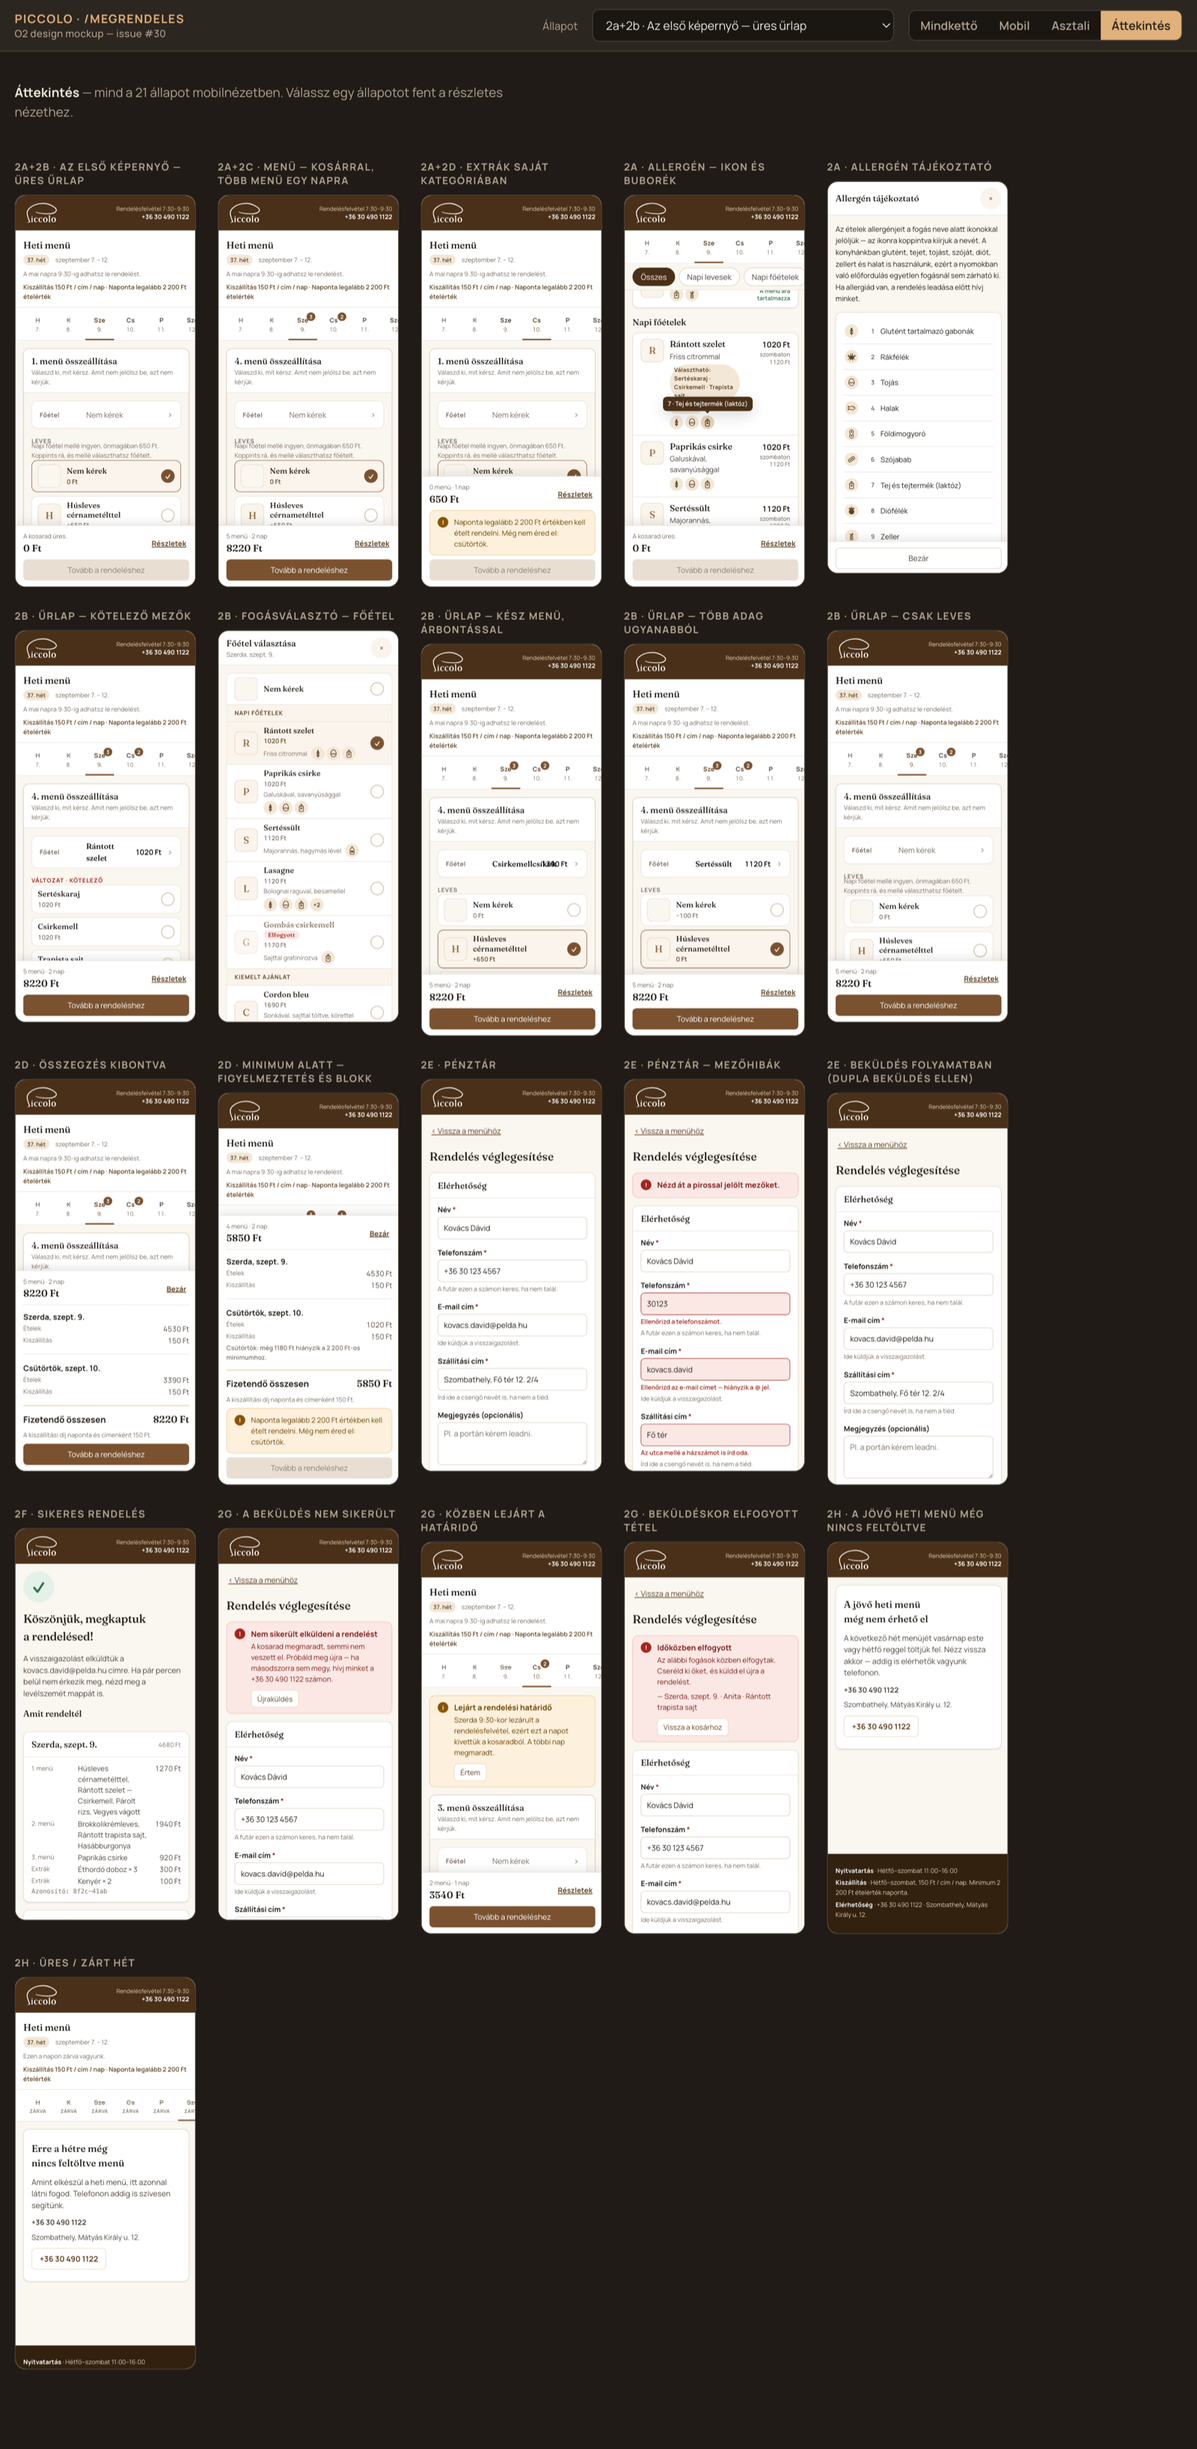
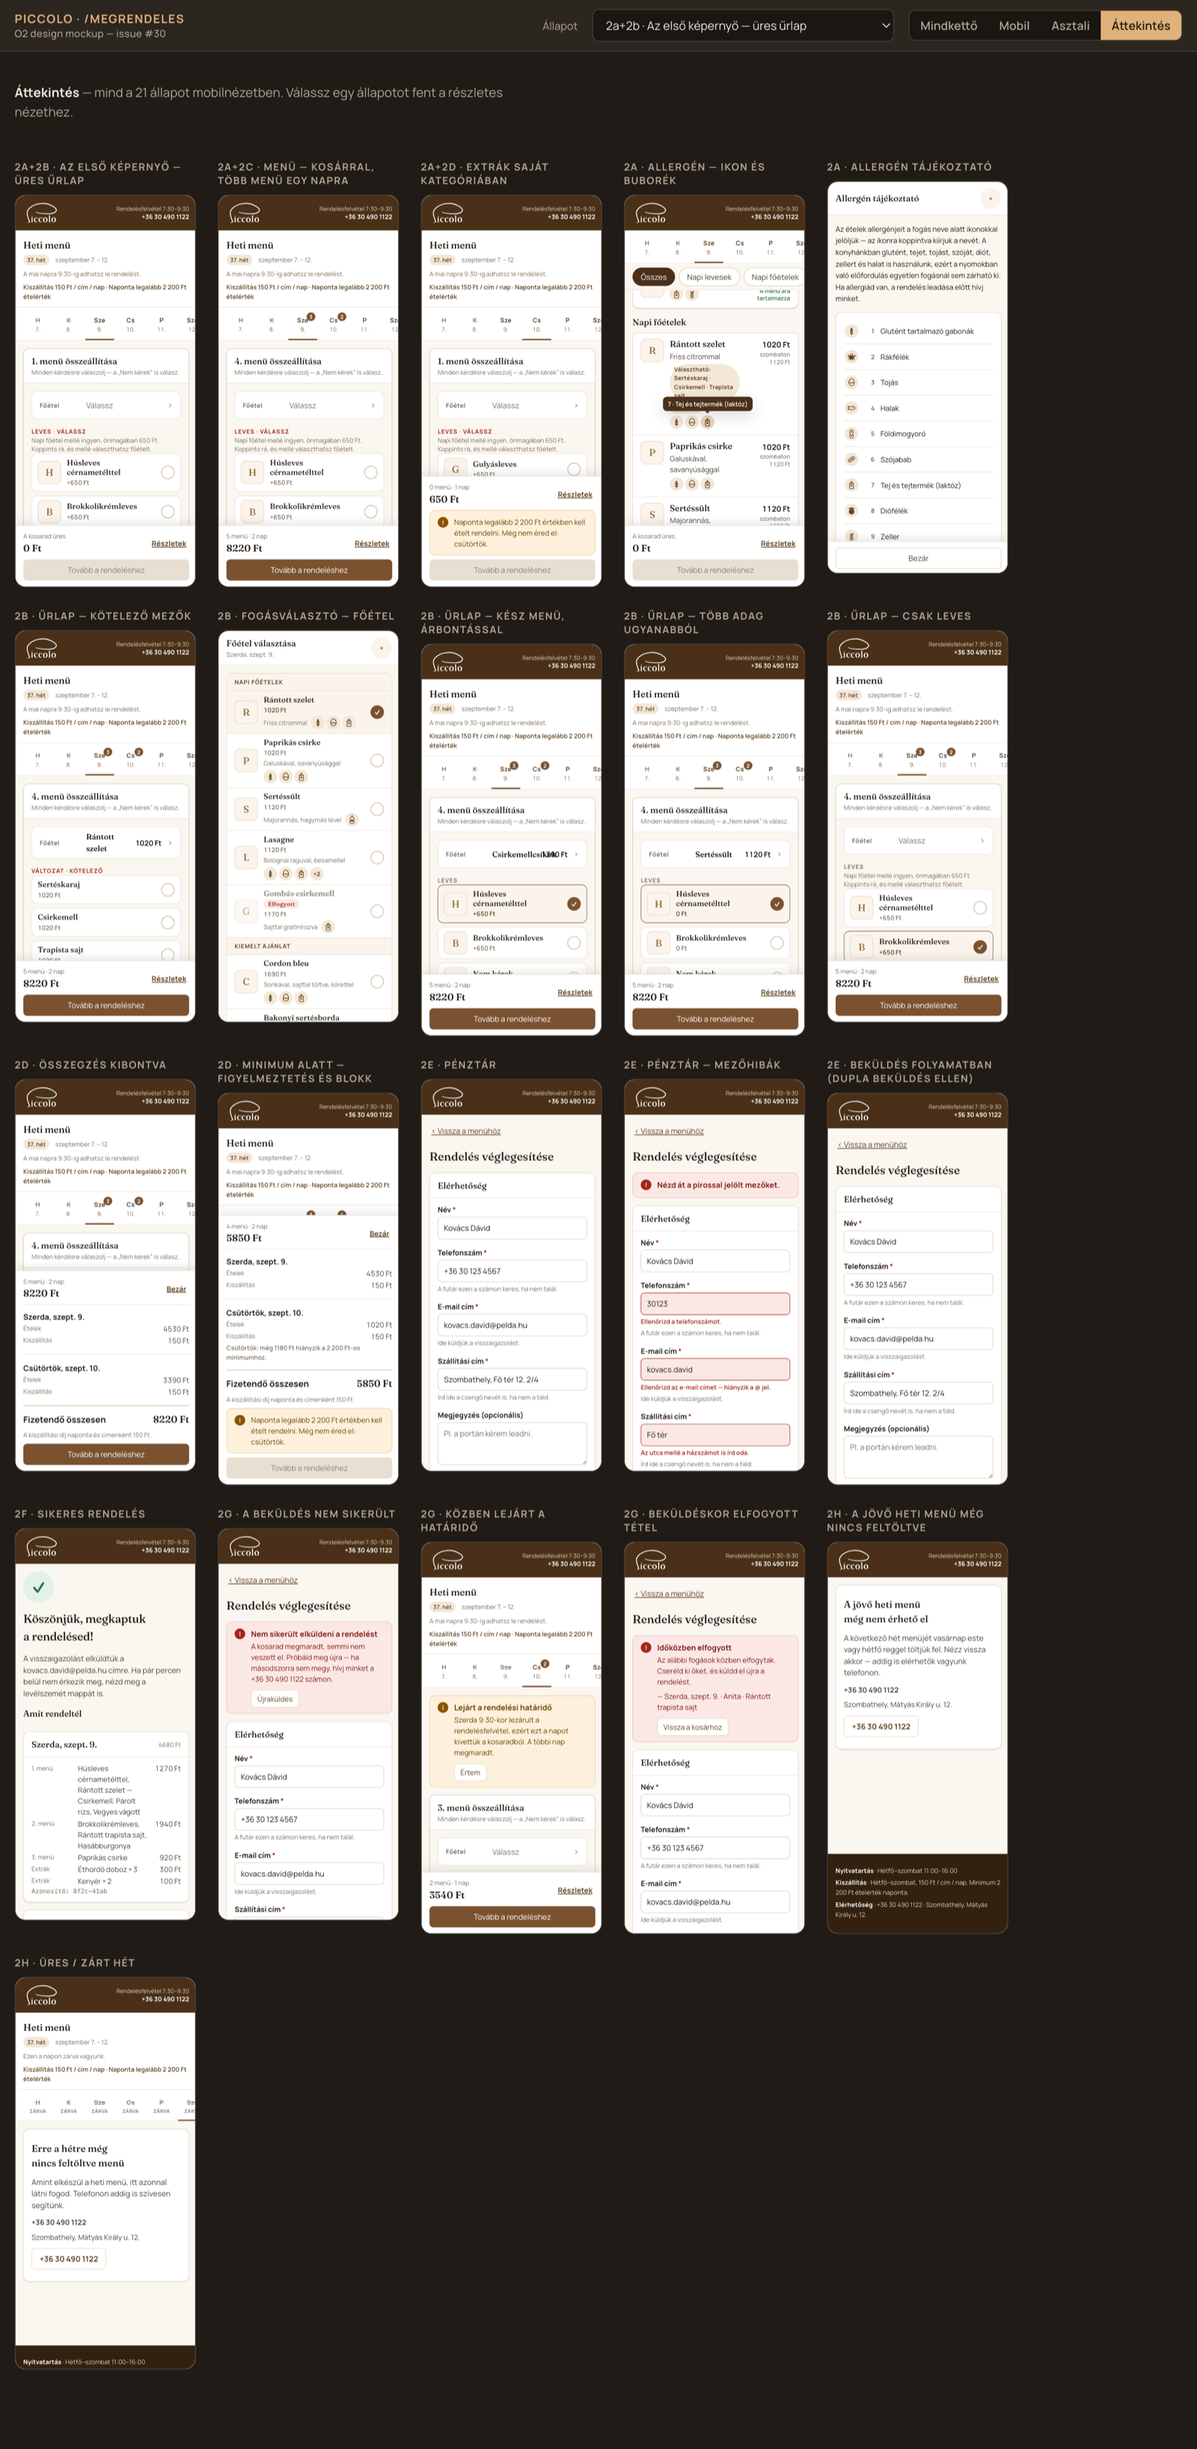
O2: no pre-selected answer, and "Nem kérek" goes last
Dávid's call. Soup, dessert and pickle now open unanswered: `undefined` means
"not answered", `null` means the guest chose "Nem kérek". Until all three are
settled the block's label reads "· válassz" in red and Hozzáadás is disabled.
"Nem kérek" moves to the bottom of every list, including the main-course picker
— it is the exit, not the entrance. The main course row prompts "Válassz"
instead of offering to decline a main.

The soup is the case that justifies it: beside a daily main it is included, and
declining only takes 100 Ft off, so a guest skipping a pre-checked "Nem kérek"
was leaving a nearly free course behind. The cost is three taps per menu on a
page used by regulars in a two-hour window, and the design note records both the
number to watch and the cheaper half — keep the forced answer on the soup, let
dessert and pickle open unanswered without blocking — as a one-line retreat.

diff --git a/docs/design/megrendeles/mockup.html b/docs/design/megrendeles/mockup.html
@@ -1301,6 +1301,12 @@
         background: var(--paper);
         border-top: 1px solid var(--line);
       }
+      .block-hint {
+        margin: calc(var(--s-1) * -1) 0 var(--s-2);
+        font-size: var(--t-sm);
+        line-height: 1.4;
+        color: var(--ink-500);
+      }
       .extra-note {
         font-size: var(--t-sm);
         color: var(--ink-500);
@@ -2116,8 +2122,10 @@
           choose: 'Válassz',
           variationLabel: 'Változat',
           requiredSuffix: 'kötelező',
+          answerSuffix: 'válassz',
+          unanswered: 'Válaszolj a jelölt kérdésekre — a „Nem kérek” is válasz.',
           formTitle: (n) => n + '. menü összeállítása',
-          formHint: 'Válaszd ki, mit kérsz. Amit nem jelölsz be, azt nem kérjük.',
+          formHint: 'Minden kérdésre válaszolj — a „Nem kérek” is válasz.',
           reset: 'Ürítés',
           mealExtras: 'Szósz, kenyér',
           mealExtrasHint: 'Ezek a nap rendeléséhez adódnak hozzá, nem a menü ára részei.',
@@ -2549,6 +2557,12 @@
 
         if (mainItem && mainItem.variations && !m.variation) errors.push('variation');
         if (mainItem && mainItem.requiresSide && !m.side) errors.push('side');
+        /* Soup, pickle and dessert carry no default. The guest answers each one —
+           picking a dish or picking "Nem kérek" — so nothing is ordered, or skipped,
+           by a checkbox nobody looked at. */
+        for (const slot of ['soup', 'pickle', 'dessert']) {
+          if (m[slot] === undefined) errors.push('unanswered:' + slot);
+        }
         if (!soupItem && !mainItem && !m.side && !m.pickle && !m.dessert) errors.push('empty');
 
         return { lines, total: lines.reduce((s, l) => s + l.amount, 0), errors };
@@ -3276,7 +3290,7 @@
             (item
               ? '<span class="picked">' + esc(item.name) + '</span>'
               : '<span class="placeholder">' +
-                esc(opts.required ? S.composer.choose : S.composer.none) +
+                esc(opts.placeholder || S.composer.choose) +
                 '</span>') +
             '</span><span class="amt num">' +
             esc(amt) +
@@ -3303,11 +3317,17 @@
          * "Csirkecomb" would both draw a C.
          */
         const choiceRows = (slotLabel, opts) => {
-          const label = opts.required ? slotLabel + ' · ' + S.composer.requiredSuffix : slotLabel;
+          const unanswered = opts.answerable && c[opts.slot] === undefined;
+          const label = opts.required
+            ? slotLabel + ' · ' + S.composer.requiredSuffix
+            : unanswered
+              ? slotLabel + ' · ' + S.composer.answerSuffix
+              : slotLabel;
           const rows = opts.options
             .map((o) => {
               const item = o.id ? ITEMS[o.id] : null;
-              const checked = (o.id || null) === (c[opts.slot] || null);
+              const chosen = c[opts.slot];
+              const checked = chosen !== undefined && (o.id || null) === (chosen || null);
               const soldOut = !!(item && item.soldOut);
               return (
                 '<button type="button" class="pickrow choicerow" role="radio" aria-checked="' +
@@ -3331,11 +3351,11 @@
             .join('');
           return (
             '<div><p class="' +
-            cls('field-label', opts.required && 'is-required') +
+            cls('field-label', (opts.required || unanswered) && 'is-required') +
             '">' +
             esc(label) +
             '</p>' +
-            (opts.hint ? '<p class="extra-note" style="margin-top:calc(var(--s-2) * -1)">' + esc(opts.hint) + '</p>' : '') +
+            (opts.hint ? '<p class="block-hint">' + esc(opts.hint) + '</p>' : '') +
             '<div class="choicerows" role="radiogroup" aria-label="' +
             esc(S.composer.slots[opts.slot] || label) +
             '">' +
@@ -3352,14 +3372,15 @@
 
         const soupBlock = choiceRows(S.composer.slots.soup, {
           slot: 'soup',
+          answerable: true,
           hint: mainItem ? null : S.sections.soupsHint,
           options: [
-            { id: null, name: S.composer.none, amount: soupAmount(null) },
             ...WEEK.byDate[date].soups.map((s) => ({
               id: s.id,
               name: s.name,
               amount: soupAmount(s.id),
             })),
+            { id: null, name: S.composer.none, amount: soupAmount(null) },
           ],
         });
 
@@ -3457,24 +3478,26 @@
           sideBlock +
           choiceRows(S.composer.slots.dessert, {
             slot: 'dessert',
+            answerable: true,
             options: [
-              { id: null, name: S.composer.none, amount: money(0) },
               ...WEEK.desserts.map((i) => ({
                 id: i.id,
                 name: i.name,
                 amount: money(priceOf(i, date)),
               })),
+              { id: null, name: S.composer.none, amount: money(0) },
             ],
           }) +
           choiceRows(S.composer.slots.pickle, {
             slot: 'pickle',
+            answerable: true,
             options: [
-              { id: null, name: S.composer.none, amount: money(0) },
               ...WEEK.pickles.map((i) => ({
                 id: i.id,
                 name: i.name,
                 amount: money(priceOf(i, date)),
               })),
+              { id: null, name: S.composer.none, amount: money(0) },
             ],
           }) +
           '<div><p class="field-label">' +
@@ -3509,7 +3532,9 @@
           ? S.composer.variationMissing
           : p.errors.includes('side')
             ? S.composer.sideMissing
-            : S.composer.emptyMenu;
+            : p.errors.some((e) => e.startsWith('unanswered:'))
+              ? S.composer.unanswered
+              : S.composer.emptyMenu;
 
         const addTotal = (p.total + extrasTotal) * portions;
         const foot =
@@ -3564,7 +3589,7 @@
         const groups = slotOptions(slot, date);
         const none =
           '<button type="button" class="pickrow option" role="radio" aria-checked="' +
-          !c[slot] +
+          (c[slot] === null) +
           '" data-pick="" data-slot="' +
           slot +
           '">' +
@@ -3621,7 +3646,7 @@
         return Sheet(
           S.composer.pickerTitle(S.composer.slots[slot]),
           cap(dayFull(date)),
-          '<div class="options" role="radiogroup">' + none + body + '</div>',
+          '<div class="options" role="radiogroup">' + body + none + '</div>',
           '',
         );
       }
@@ -4002,15 +4027,20 @@
         [...WEEK.featured, ...WEEK.allWeek, ...WEEK.sides, ...WEEK.sideExtras, ...WEEK.pickles, ...WEEK.desserts].find(
           (i) => i.name === name,
         ).id;
+      /**
+       * `undefined` on a slot means "not answered yet"; `null` means the guest chose
+       * "Nem kérek". Only that distinction lets the form open with nothing selected
+       * and still know when every question has been put to rest.
+       */
+      /** A menu that is already in the cart: every question answered. */
+      const addedMenu = (o) => composedMenu({ soup: null, pickle: null, dessert: null, ...o });
+
       const composedMenu = (o) => ({
         portions: 1,
         extras: {},
-        soup: null,
         main: null,
         variation: null,
         side: null,
-        pickle: null,
-        dessert: null,
         ...o,
       });
 
@@ -4029,19 +4059,19 @@
         {
           date: WED,
           menus: [
-            composedMenu({
+            addedMenu({
               soup: dayItem(WED, 'Húsleves cérnametélttel'),
               main: dayItem(WED, 'Rántott szelet'),
               variation: 'Csirkemell',
               side: permItem('Párolt rizs'),
               pickle: permItem('Vegyes vágott'),
             }),
-            composedMenu({
+            addedMenu({
               soup: dayItem(WED, 'Brokkolikrémleves'),
               main: permItem('Rántott trapista sajt'),
               side: permItem('Hasábburgonya'),
             }),
-            composedMenu({ main: dayItem(WED, 'Paprikás csirke') }),
+            addedMenu({ main: dayItem(WED, 'Paprikás csirke') }),
           ],
           extras: [
             { key: 'box', qty: 3 },
@@ -4051,12 +4081,12 @@
         {
           date: THU,
           menus: [
-            composedMenu({
+            addedMenu({
               soup: dayItem(THU, 'Gulyásleves'),
               main: dayItem(THU, 'Sült oldalas'),
               side: permItem('Steak burgonya'),
             }),
-            composedMenu({
+            addedMenu({
               soup: dayItem(THU, 'Sárgaborsó-krémleves'),
               main: dayItem(THU, 'Csirkepaprikás'),
               dessert: permItem('Túrógombóc'),
@@ -4068,7 +4098,7 @@
 
       const cartBelowMinimum = () => {
         const c = cartFull();
-        c[1].menus = [composedMenu({ main: dayItem(THU, 'Csirkepaprikás') })];
+        c[1].menus = [addedMenu({ main: dayItem(THU, 'Csirkepaprikás') })];
         c[1].extras = [{ key: 'box', qty: 1 }];
         return c;
       };
@@ -4099,7 +4129,7 @@
         {
           id: 'menu-empty',
           label: '2a+2b · Az első képernyő — üres űrlap',
-          note: 'Ez az, amit a vendég reggel lát: <b>egy üres űrlap az 1. menühöz</b>, ahogy a régi oldalon is. Nem kell böngészni, nem nyílik modal — csak kiválasztod, mit kérsz. A főétel tömör sor + választólap (11 fogás három kategóriából), minden más ki van nyitva. Alatta megmarad a kínálat böngészhető listája: ott is koppinthatsz egy fogásra, és beleesik az űrlapba. Hétfő és kedd már lezárult (áthúzva), a kiszállítási díj és a minimum a fejlécben.',
+          note: 'Ez az, amit a vendég reggel lát: <b>egy üres űrlap az 1. menühöz</b>, ahogy a régi oldalon is. Nem kell böngészni, nem nyílik modal — csak kiválasztod, mit kérsz. A főétel tömör sor + választólap (11 fogás három kategóriából), minden más ki van nyitva. Alatta megmarad a kínálat böngészhető listája: ott is koppinthatsz egy fogásra, és beleesik az űrlapba. <b>Semmi nincs előre bejelölve</b>: a levesre, a desszertre és a savanyúságra külön-külön válaszolni kell, és a „Nem kérek” a lista <i>végén</i> áll, nem az elején. Amíg egy kérdés nyitva van, a címkéje pirosan „· válassz”, és a „Hozzáadás” tiltva. Hétfő és kedd már lezárult (áthúzva), a kiszállítási díj és a minimum a fejlécben.',
           vm: () => baseVm({}),
         },
         {
@@ -4169,10 +4199,11 @@
             baseVm({
               cart: cartFull(),
               composer: composedMenu({
-                  soup: dayItem(WED, 'Húsleves cérnametélttel'),
+                soup: dayItem(WED, 'Húsleves cérnametélttel'),
                 main: permItem('Csirkemellcsíkok'),
                 side: permItem('Steak burgonya'),
                 dessert: permItem('Almás pite'),
+                pickle: null,
               }),
             }),
         },
@@ -4188,6 +4219,7 @@
                 main: dayItem(WED, 'Sertéssült'),
                 side: permItem('Főtt burgonya'),
                 pickle: permItem('Csemege uborka'),
+                dessert: null,
                 portions: 3,
               }),
             }),
@@ -4200,7 +4232,9 @@
             baseVm({
               cart: cartFull(),
               composer: composedMenu({
-                  soup: dayItem(WED, 'Brokkolikrémleves'),
+                soup: dayItem(WED, 'Brokkolikrémleves'),
+                pickle: null,
+                dessert: null,
               }),
             }),
         },
@@ -4678,6 +4712,9 @@
           const day = cartDay();
           for (let k = 0; k < n; k++) {
             const menu = { ...vm.composer, portions: 1 };
+            for (const slot of ['soup', 'pickle', 'dessert']) {
+              if (menu[slot] === undefined) menu[slot] = null;
+            }
             menu.extras = undefined;
             day.menus.push(menu);
           }

diff --git a/docs/design/megrendeles/README.md b/docs/design/megrendeles/README.md
@@ -346,6 +346,28 @@ confirm or reject:
     because filling it in is the job of that screen and the reference's arrangement is a tablet
     layout. One line of CSS moves the rail to the left if Dávid prefers the reference exactly.
 
+14. **Nothing is pre-selected, and "Nem kérek" is the last option.** Dávid's call, 2026-09-07.
+    Soup, dessert and pickle each open unanswered; the guest picks a dish *or* picks "Nem kérek",
+    and until every one is settled the block's label reads `· válassz` in red and "Hozzáadás" is
+    disabled. Three things follow.
+    **(a) Why it is likely to lift the order.** A pre-checked "Nem kérek" sitting first is a default
+    nobody reads — it answers the question before it is asked, and the eye moves on. Removing it
+    forces the options into view once per menu. The strongest case is the **soup**: beside a daily
+    main it is included, and declining it only takes 100 Ft off, so a guest who skipped past a
+    pre-checked "Nem kérek" was leaving a nearly free course on the table. Dessert (590–690 Ft) and
+    pickle (250 Ft) are straight upsell, and that is where the revenue would come from.
+    **(b) What it costs.** Three taps per menu that nobody paid before, on a page whose users are
+    regulars ordering the same lunch inside a two-hour window. Forced choice hurts habitual repeat
+    users most, which is exactly this audience. The number to watch is not attach rate on its own
+    but attach rate *against* completed orders per week — analytics is on the backlog.
+    **(c) The cheaper half, if it turns out to hurt.** Keep the forced answer on the soup, where a
+    real price consequence hangs on it, and let dessert and pickle open unanswered without blocking.
+    That keeps the attention effect and gives back two of the three taps. It is one line: drop those
+    two slots from the `unanswered:` check in `priceMenu`.
+15. **The main course prompts "Válassz", not "Nem kérek".** The row is not offering to decline a
+    main; it is asking for one. A menu without a main is still valid — the soup-only case in
+    decision 9 — but that is reached by choosing a soup, not by declining the main.
+
 ## Follow-ups this mockup suggests
 
 Not in scope for #30 — listed so they are not lost:

diff --git a/docs/design/megrendeles/strings.md b/docs/design/megrendeles/strings.md
@@ -120,8 +120,10 @@ export const strings = {
     choose: 'Válassz',
     variationLabel: 'Változat',
     requiredSuffix: 'kötelező',
+    answerSuffix: 'válassz',
+    unanswered: 'Válaszolj a jelölt kérdésekre — a „Nem kérek” is válasz.',
     formTitle: (n: number) => n + '. menü összeállítása',
-    formHint: 'Válaszd ki, mit kérsz. Amit nem jelölsz be, azt nem kérjük.',
+    formHint: 'Minden kérdésre válaszolj — a „Nem kérek” is válasz.',
     reset: 'Ürítés',
     mealExtras: 'Szósz, kenyér',
     mealExtrasHint: 'Ezek a nap rendeléséhez adódnak hozzá, nem a menü ára részei.',
